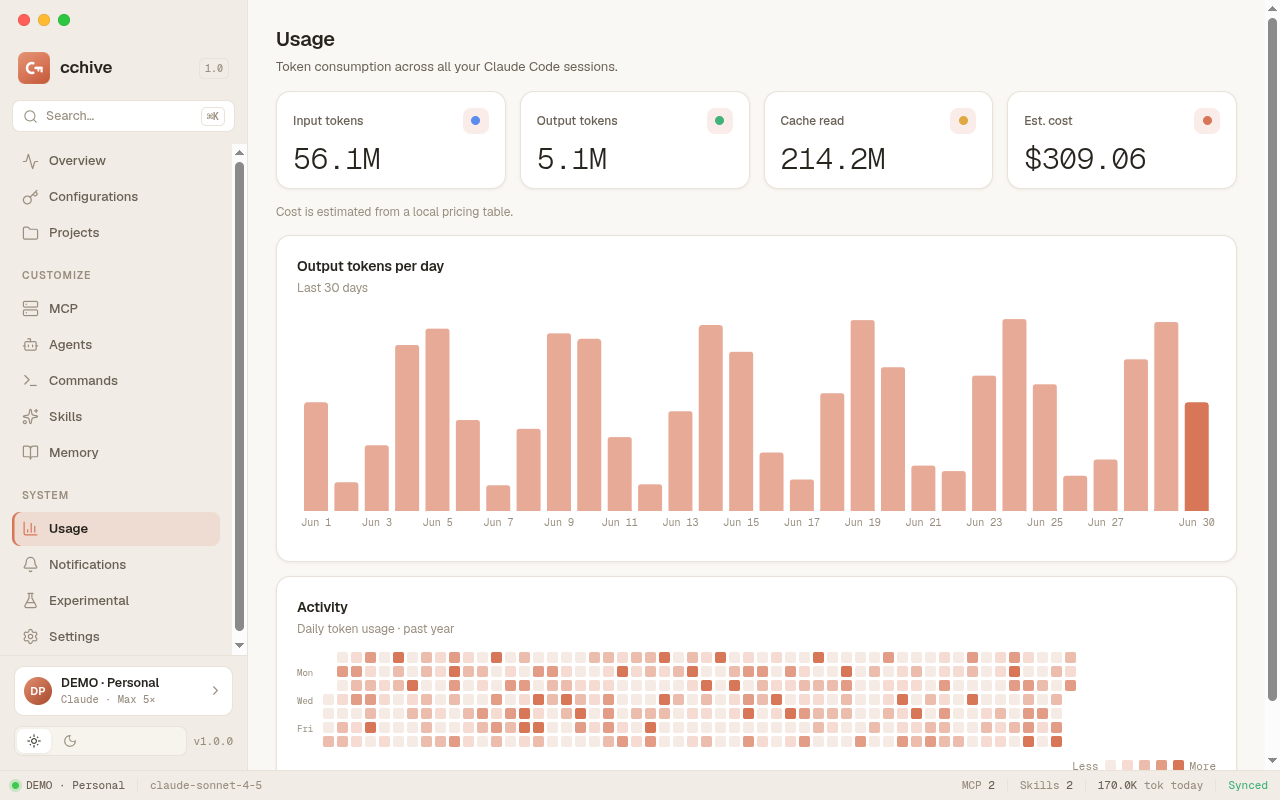
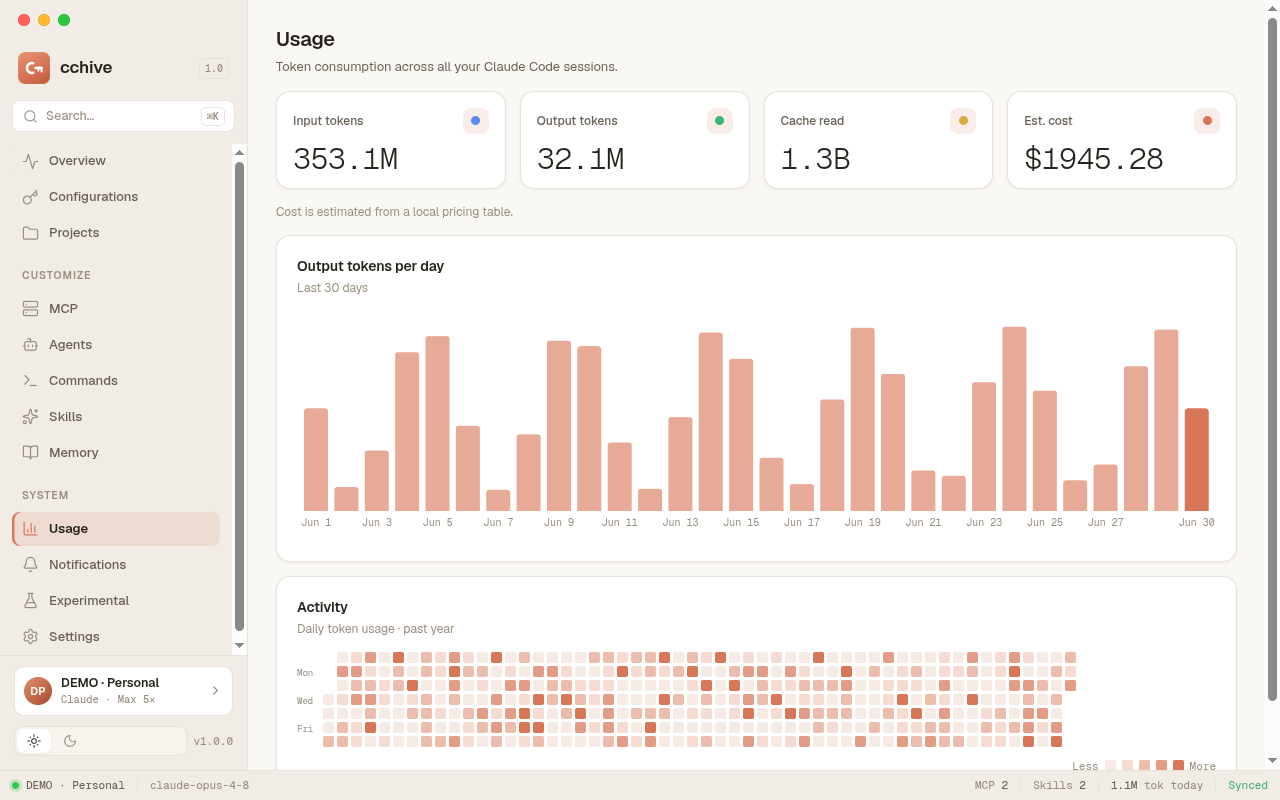
docs: richer demo data + framed desktop hero screenshot
Enrich the off-Tauri demo seed to a representative power-user shape: claude-opus-4-8
as the active and top model, billions-scale token breakdown, and healthy daily
output, so the demo (and the README screenshots) no longer look empty. Replace the
flat overview screenshot with a framed hero (rounded window + drop shadow on a warm
backdrop) so it reads as a desktop window, and refresh the other shots.

diff --git a/src/lib/queries.ts b/src/lib/queries.ts
@@ -170,7 +170,7 @@ const DEMO_ACTIVE_IDENTITY: ActiveIdentity = {
   email: "[email redacted]",
   org: "DEMO · Acme Org",
   tier: "Max 5×",
-  model: "claude-sonnet-4-5",
+  model: "claude-opus-4-8",
   expiresAt: null,
 };
 
@@ -181,7 +181,7 @@ const DEMO_ENV_OVERRIDES: EnvOverrides = {
 };
 
 const DEMO_SETTINGS_SUMMARY: SettingsSummary = {
-  model: "claude-sonnet-4-5",
+  model: "claude-opus-4-8",
   hasEnv: false,
   topLevelKeys: ["model", "permissions"],
 };
@@ -552,7 +552,7 @@ function demoUsageSummary(rangeDays: number): UsageSummary {
   const perDay: DayPoint[] = [];
   for (let back = rangeDays - 1; back >= 0; back--) {
     const wave = (Math.sin(back * 1.3) + 1) / 2;
-    const output = Math.round(40_000 + wave * 260_000);
+    const output = Math.round(220_000 + wave * 1_700_000);
     perDay.push({
       date: demoDay(today, back),
       output,
@@ -584,6 +584,9 @@ function demoUsageSummary(rangeDays: number): UsageSummary {
     { input: 0, output: 0, cacheCreation: 0, cacheRead: 0 },
   );
 
+  const grand =
+    totals.input + totals.output + totals.cacheCreation + totals.cacheRead;
+
   const estCostUsd =
     Math.round(
       (totals.input * 3e-6 +
@@ -599,8 +602,10 @@ function demoUsageSummary(rangeDays: number): UsageSummary {
     unknownModels: [],
     perDay,
     perModel: [
-      { model: "DEMO · claude-sonnet-4-5", tokens: Math.round(totals.output * 9) },
-      { model: "DEMO · claude-haiku-4-5", tokens: Math.round(totals.output * 3) },
+      { model: "DEMO · claude-opus-4-8", tokens: Math.round(grand * 0.6) },
+      { model: "DEMO · claude-sonnet-4-5", tokens: Math.round(grand * 0.24) },
+      { model: "DEMO · claude-fable-5", tokens: Math.round(grand * 0.11) },
+      { model: "DEMO · claude-haiku-4-5", tokens: Math.round(grand * 0.05) },
     ],
     heatmap,
   };

diff --git a/README.md b/README.md
@@ -8,7 +8,7 @@ MCP servers, agents, commands, skills and memory, and read your local usage — 
 machine, nothing leaving your device. It runs as a native [Tauri](https://tauri.app) app
 (Rust shell + React UI) and stores secrets in your OS keyring.
 
-![cchive overview](docs/images/overview.png)
+![cchive](docs/images/hero.png)
 
 > Screenshots use built-in demo data — no real account is shown.
 